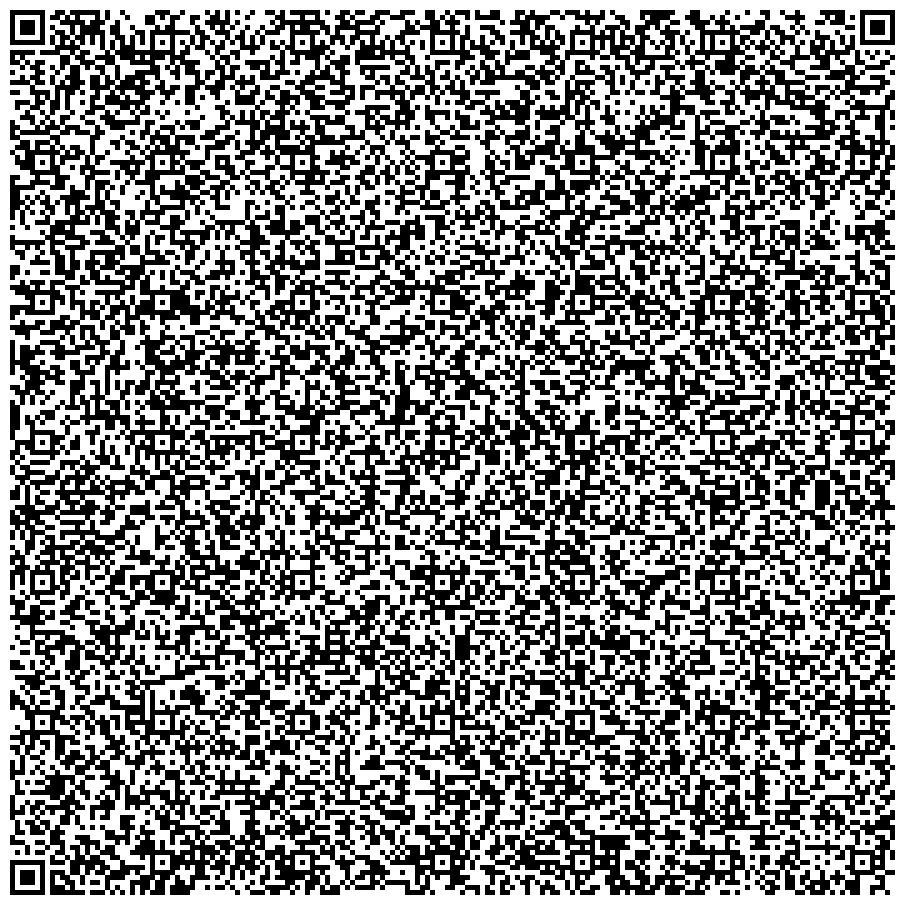
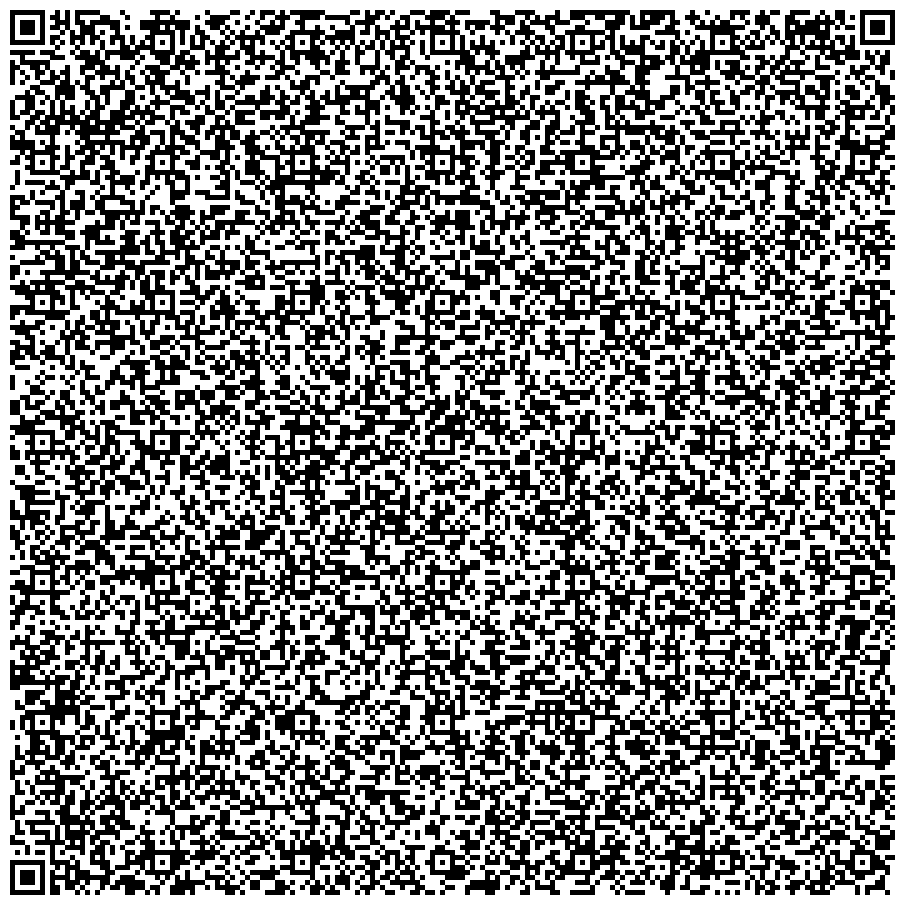
changekey

diff --git a/resources/upload.py b/resources/upload.py
@@ -43,7 +43,7 @@ def post(id):
     # Nén và dữ liệu đặc trưng
     compressed_data = compress_and_encode_data(keypoints, descriptors)
     # Mã hóa dữ liệu bằng AES
-    key = b'\xc2\xe2\xa8B\xf8#\x87\xe5\xe5\x9d\xee\xdc5\t\xf6\xe1/\x9af\x1c\xef\rP1\xce\xe1`\xa1\x89\x83C]'
+    key = b'\xae,\x8b\xb3\xc3=s\x8b\x0f\xf1\xb6z"^\xc6o\x16\xac_k\xdc\x12\x16\xb5{zN2\xb4-4\x14'
     iv =b'1234567891234567'
     encrypted_user_id=encrypt(str(id).encode('utf-8'), key,iv)
     encrypted_compressed_data = encrypt(compressed_data, key,iv)

diff --git a/resources/auth.py b/resources/auth.py
@@ -44,7 +44,7 @@ def post():
     # Chia dữ liệu
     split_data_parts = qr_code_data.split('.')
     # Giải mã dữ liệu bằng AES
-    key = b'\xc2\xe2\xa8B\xf8#\x87\xe5\xe5\x9d\xee\xdc5\t\xf6\xe1/\x9af\x1c\xef\rP1\xce\xe1`\xa1\x89\x83C]'
+    key = b'\xae,\x8b\xb3\xc3=s\x8b\x0f\xf1\xb6z"^\xc6o\x16\xac_k\xdc\x12\x16\xb5{zN2\xb4-4\x14'
     iv =b'1234567891234567'
     # Giải mã dữ liệu người dùng
     user_data = decrypt(split_data_parts[0], key, iv)

diff --git a/func/test.py b/func/test.py
@@ -2,3 +2,16 @@ from genqrcode import generate_qr_code
 from aes import encrypt,decrypt
 import base64
 
+import secrets
+
+def generate_256bit_bytes():
+    # Tạo 32 byte ngẫu nhiên (256 bit)
+    random_bytes = secrets.token_bytes(32)
+    
+    return random_bytes
+
+# Sử dụng hàm để tạo chuỗi byte
+x = generate_256bit_bytes()
+
+# In chuỗi byte
+print(x)
